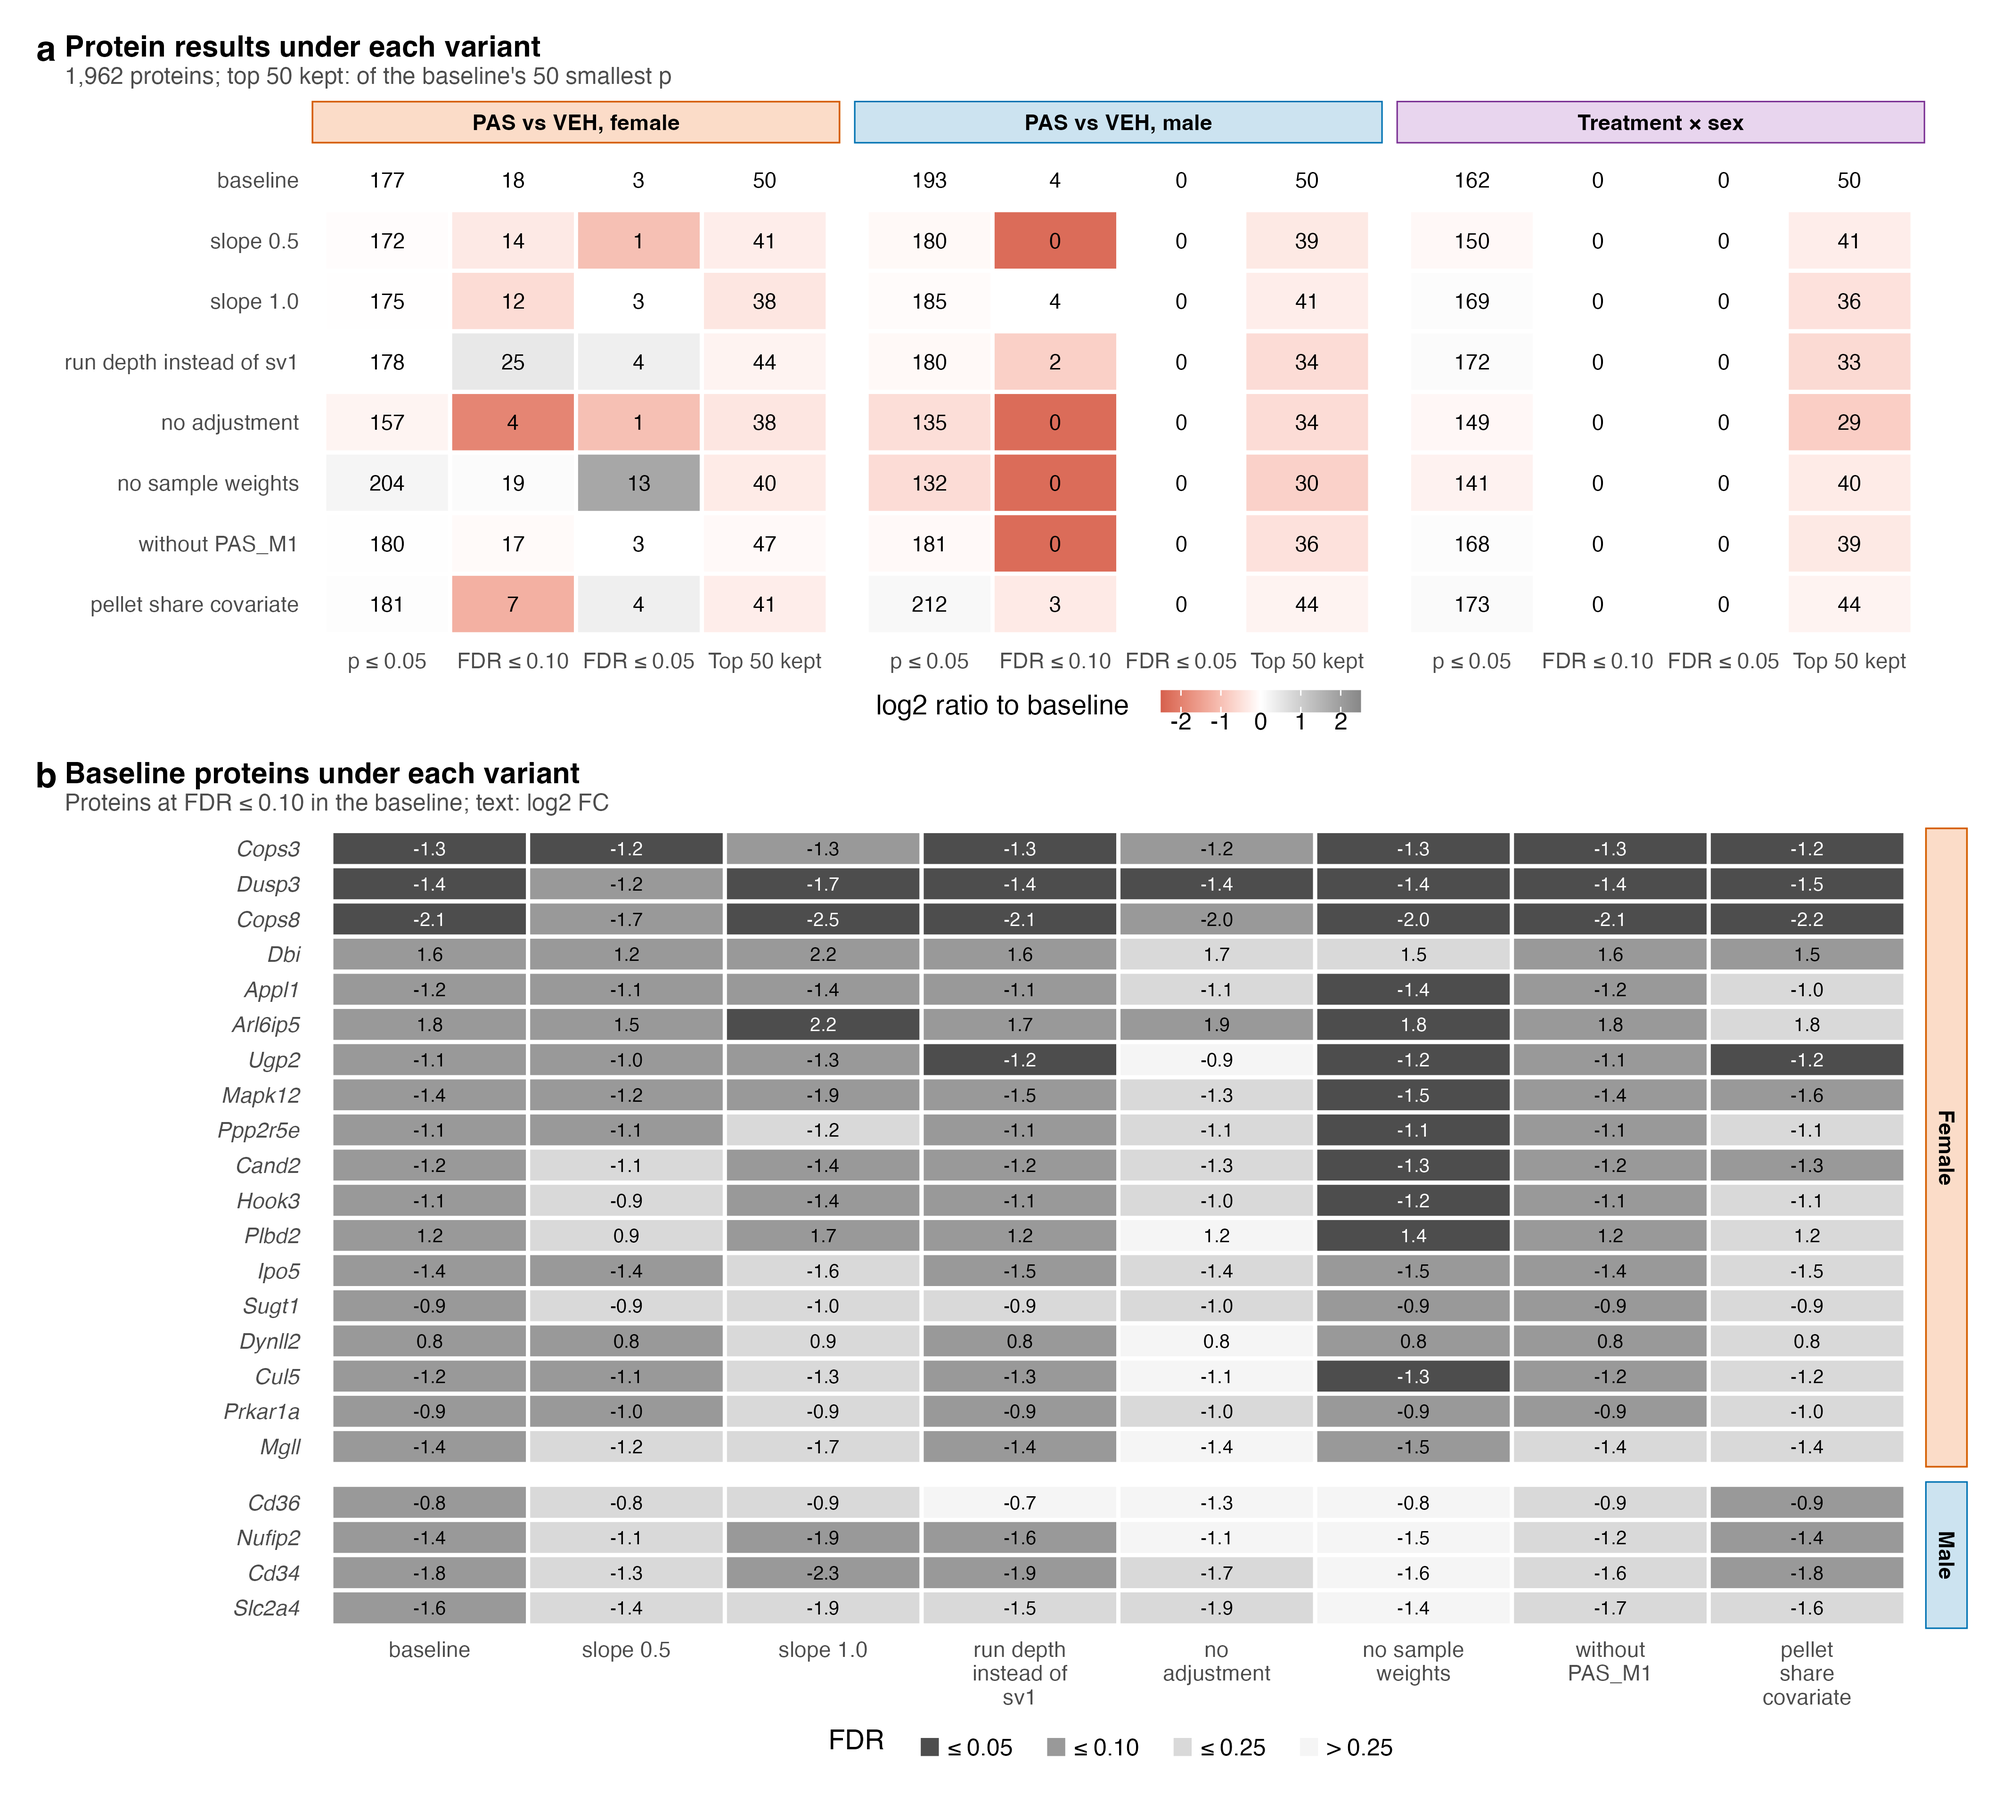
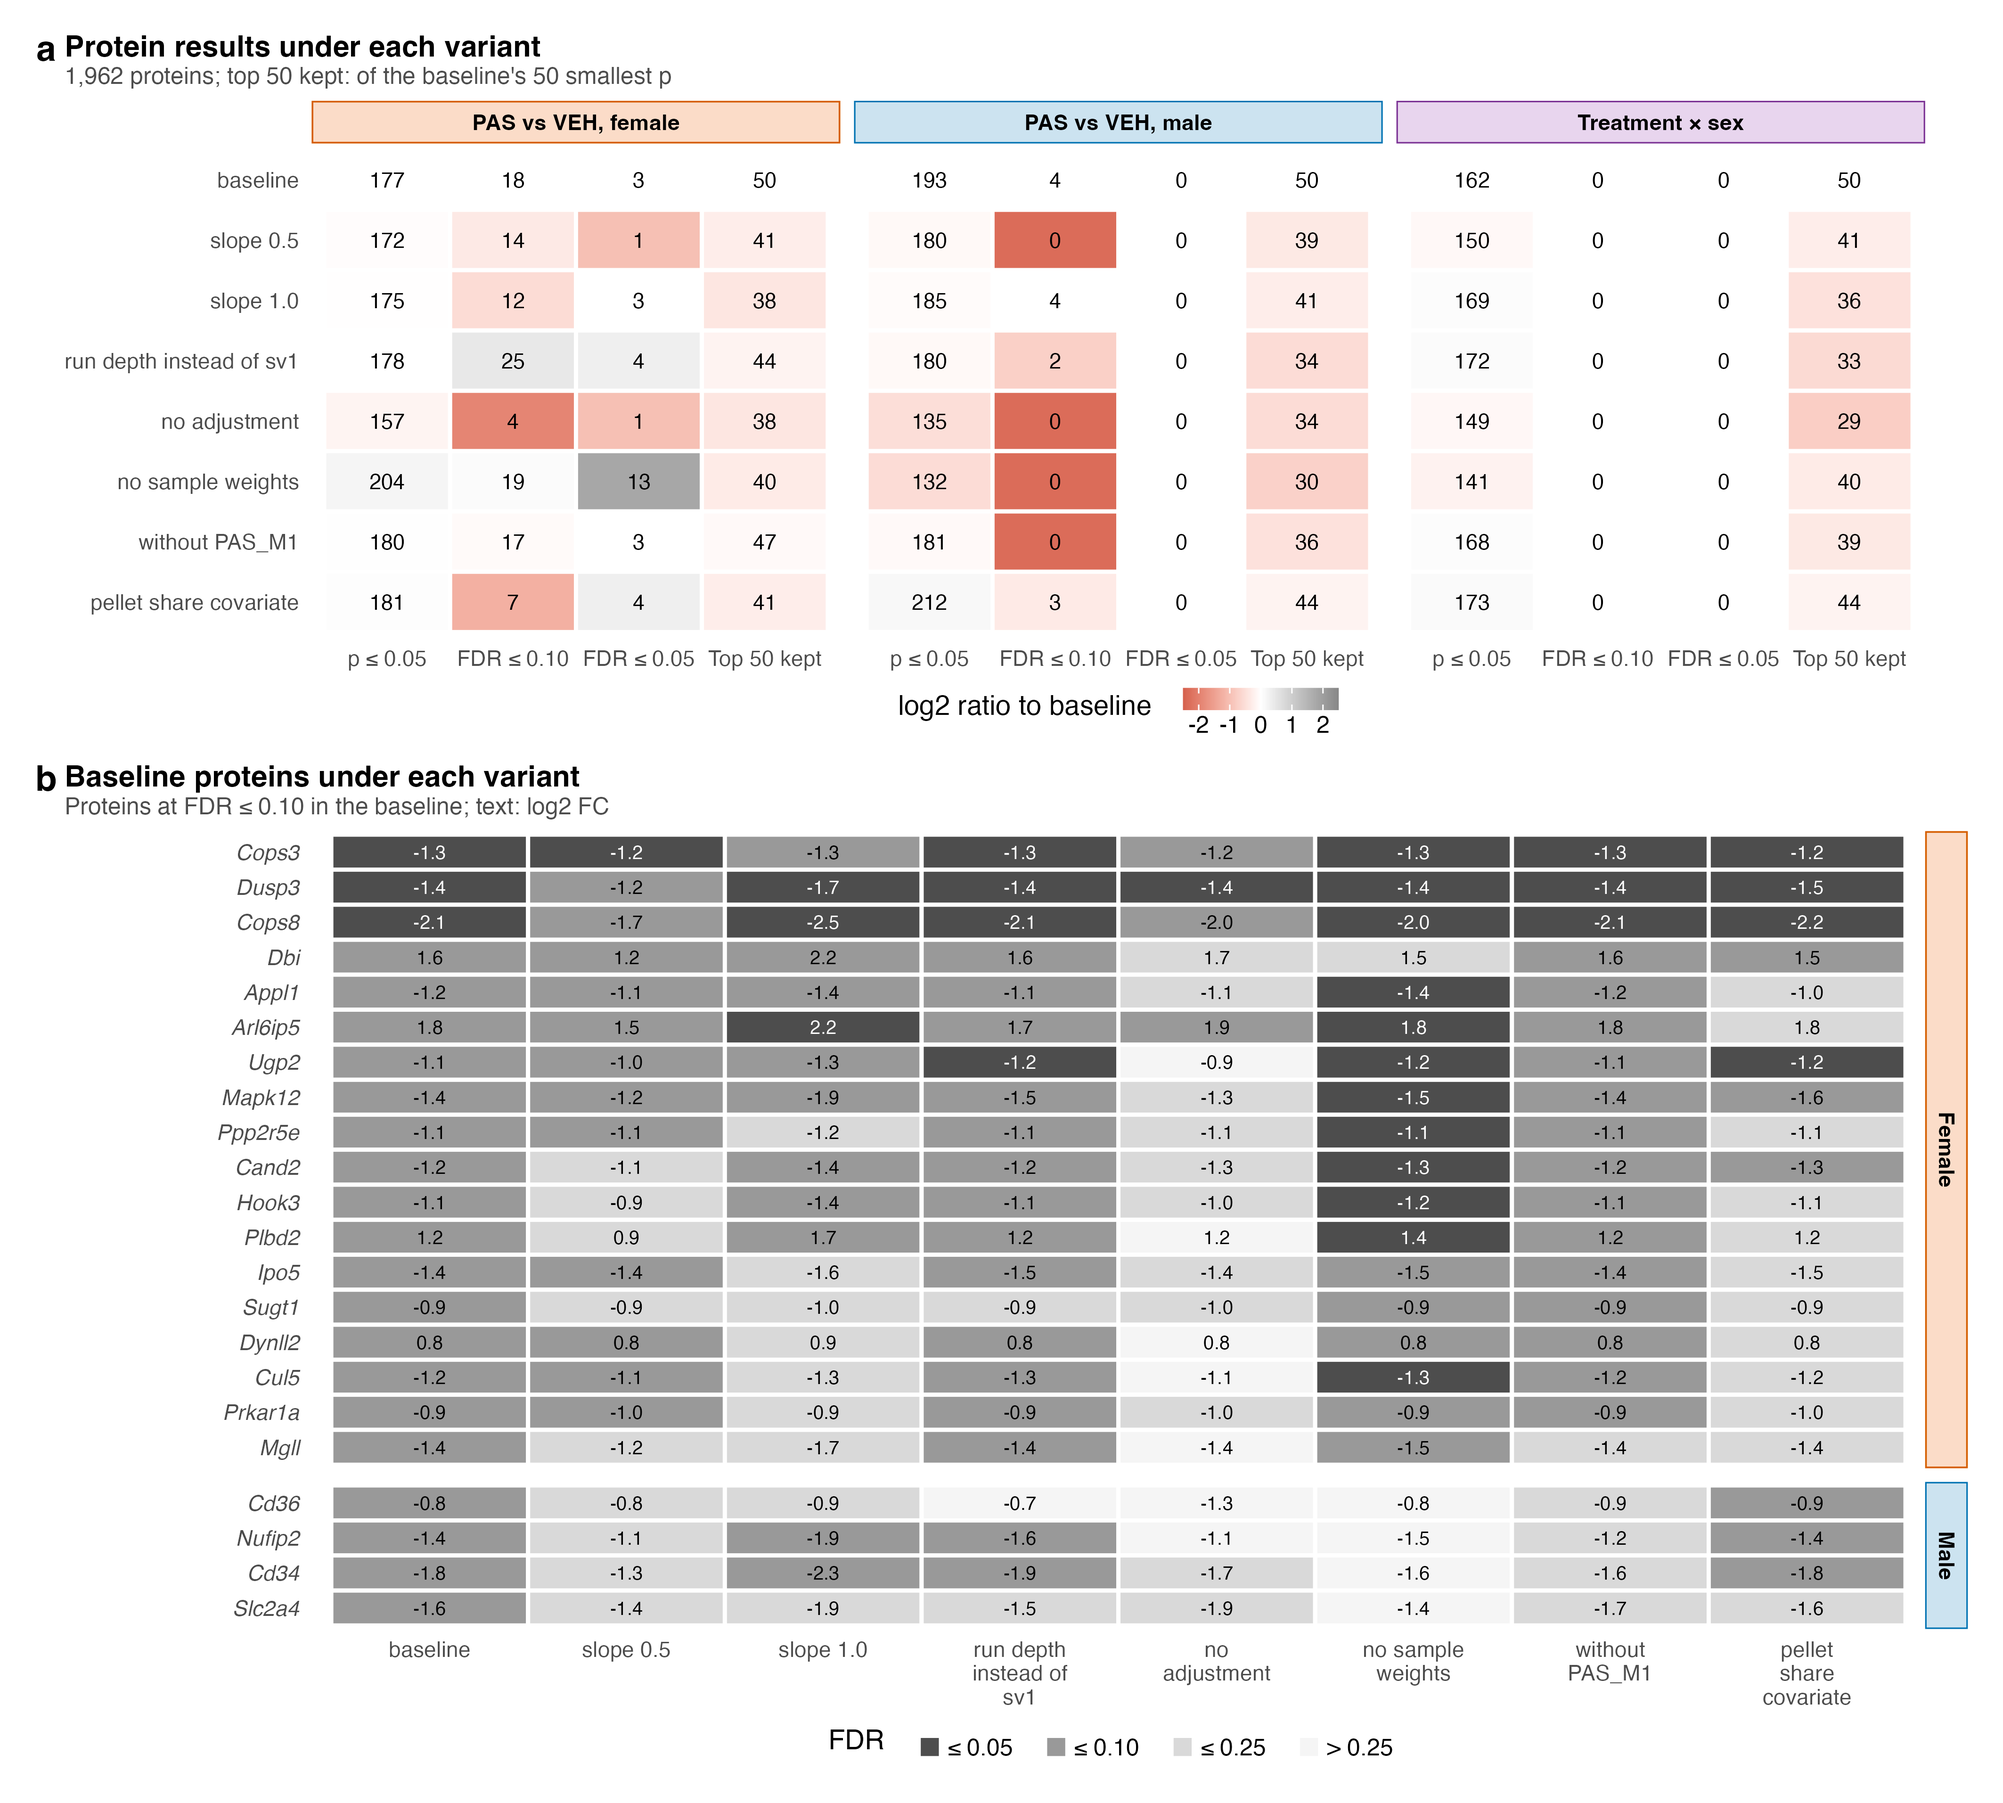
give S8 the shared colour bar and stop calling two protein groups isoforms

diff --git a/04_Figures/S7_Candidates/README.md b/04_Figures/S7_Candidates/README.md
@@ -30,7 +30,7 @@ Three proteins pass four routes (Cul5, Fkbp1a, Atp2a1), 11 pass three and 44 pas
 
 The same layout for the 47 male proteins passing two or more routes, with the log2 FC scale running to the largest male |log2 FC| (2.38), so the colours of the two panels are close but not identical.
 
-No male protein passes four routes; 11 pass three and 36 pass two. The every-mouse route is passed by 39 rows, p ≤ 0.01 by 31 (26 both), the leading edge by 20, both sexes by 7, the hub by 6 (Mdh1, Ryr1, Camk2a, Hhatl, Rtn4, Hacd1) and the phenotype route by 2 (Comtd1, Gmpr). Thirty-six of the 47 are lower with PAS. Two Cav1 protein groups both pass, labelled `Cav1 D3Z0J2` and `Cav1 P49817`. Fifteen rows are marker proteins of the classes whose score falls in male PAS pellets (S1 panel f): red cell (Spta1, Slc4a1, Epb41), nerve (Nefl, Nefm, Mbp, Mpz, Prx), vessel (both Cav1 isoforms, Aoc3) and myofibril (Tnnt3, Tpm1, Tnni2, Tpm2). All 15 are lower with PAS. Because the class scores are built from these same proteins, the two observations are not independent, and these 15 candidates may report what went into the tube rather than a change within the muscle.
+No male protein passes four routes; 11 pass three and 36 pass two. The every-mouse route is passed by 39 rows, p ≤ 0.01 by 31 (26 both), the leading edge by 20, both sexes by 7, the hub by 6 (Mdh1, Ryr1, Camk2a, Hhatl, Rtn4, Hacd1) and the phenotype route by 2 (Comtd1, Gmpr). Thirty-six of the 47 are lower with PAS. Two Cav1 protein groups both pass, labelled `Cav1 D3Z0J2` and `Cav1 P49817`. Fifteen rows are marker proteins of the classes whose score falls in male PAS pellets (S1 panel f): red cell (Spta1, Slc4a1, Epb41), nerve (Nefl, Nefm, Mbp, Mpz, Prx), vessel (both Cav1 protein groups, D3Z0J2 and P49817, and Aoc3) and myofibril (Tnnt3, Tpm1, Tnni2, Tpm2). All 15 are lower with PAS. Because the class scores are built from these same proteins, the two observations are not independent, and these 15 candidates may report what went into the tube rather than a change within the muscle.
 
 Across both sexes, 255 female and 208 male proteins pass at least one route. The route thresholds are deliberately loose and the routes are not independent, and the phenotype route crosses tissues (respiration comes from soleus and plantaris). The 463 candidates are discovery-stage leads for a western blot or targeted assay in new mice, not validated biomarkers.
 
